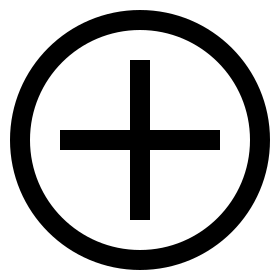
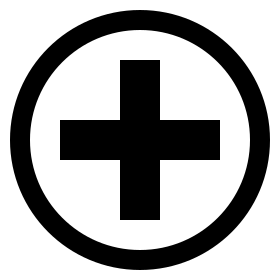
wip-21:44 05-02-20

diff --git a/src/scripts/workspace/components/grids/circlegrid.js b/src/scripts/workspace/components/grids/circlegrid.js
@@ -1,14 +1,32 @@
 import React from 'react';
 import { COLORS } from '../../../util/constants';
+import { Cross } from '../overlayHelperShapes';
 
 export default props => {
-    const { radius, segments, rings } = props;
+    const { radius, segments, rings, offset } = props;
     const arr = new Array(rings).fill(0);
+    const angleInc = (Math.PI * 2) / segments;
     return (
         <g>
-            {arr.map((_, i) => (
-                <circle cx={radius} cy={radius} r={(radius / rings) * (i + 1)} stroke={COLORS.BLUE} fill="none" />
-            ))}
+            {arr.map((_, i) => {
+                let angle = offset || 0;
+                const ringRadius = (radius / rings) * (i + 1);
+                const segmentArr = new Array(segments).fill(0).map(e => {
+                    const x = Math.cos(angle) * ringRadius + radius;
+                    const y = Math.sin(angle) * ringRadius + radius;
+                    angle += angleInc;
+                    return [x, y];
+                });
+
+                return (
+                    <>
+                        <circle cx={radius} cy={radius} r={ringRadius} stroke={COLORS.BLUE} fill="none" />
+                        {segmentArr.map(s => (
+                            <Cross x={s[0]} y={s[1]} color={COLORS.BLUE} />
+                        ))}
+                    </>
+                );
+            })}
         </g>
     );
 };

diff --git a/src/scripts/compiler/lexer/lexer.js b/src/scripts/compiler/lexer/lexer.js
@@ -27,9 +27,7 @@ const pairArgReplacements = [
             matches.forEach(match => {
                 str = this.replace(str, match);
             });
-
             console.log(str);
-
             return str;
         },
         replace(str, matches) {
@@ -101,13 +99,16 @@ const singleArgReplacements = [
     },
     {
         name: 'Grid Units',
-        regex: '((?:^-)?[0-9.]*)u([0-9.]*)',
+        regex: '([0-9.]*)u([0-9.]*)',
         parse(str, { gridUnit, gridDivisions }) {
+            console.log('Cstr', str);
             const matches = [...str.matchAll(this.regex)];
             // return this.replace(str);
+            console.log(matches);
             matches.forEach(match => {
                 str = str.replace(match[0], +match[1] * gridUnit + +match[2] * (gridUnit / gridDivisions));
             });
+            console.log('NEw str', str);
             return str;
         },
         replace(str, matches, { gridUnit, gridDivisions }) {

diff --git a/src/scripts/workspace/components/grids/trigrid.js b/src/scripts/workspace/components/grids/trigrid.js
@@ -25,9 +25,14 @@ export function TriGridLines(props) {
     // const currentHeight = height;
     // const currentWidth = width;
     /* console.log(PI, getOpp); */
-    const opp = getOpp(angle, height);
 
-    lines.push(<Line color={UNIT_LINE_COLOR} opacity={UNIT_LINE_OPACITY} x1={0} y1={0} x2={opp} y2={height} />);
+    let currentHeight = 0;
+    while (currentHeight < height) {
+        const opp = getOpp(angle, height - currentHeight);
+        lines.push(<Line color={UNIT_LINE_COLOR} opacity={UNIT_LINE_OPACITY} x1={0} y1={currentHeight} x2={opp} y2={height} />);
+        lines.push(<Line color={UNIT_LINE_COLOR} opacity={UNIT_LINE_OPACITY} x1={width} y1={currentHeight} x2={width - opp} y2={height} />);
+        currentHeight += size;
+    }
 
     // const triBaseg
 

diff --git a/src/scripts/compiler/parser/parser.js b/src/scripts/compiler/parser/parser.js
@@ -290,7 +290,7 @@ const elements = {
         const height = radius * 2;
         return (
             <Fragment>
-                {showHelpers && <CircleGrid width={width} height={height} radius={radius} segments={segments} rings={rings} />}
+                {showHelpers && <CircleGrid {...{ offset, width, height, radius, rings, segments }} />}
                 {children.map((Child, i) => (
                     <Child key={i} />
                 ))}
